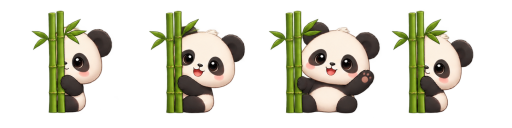
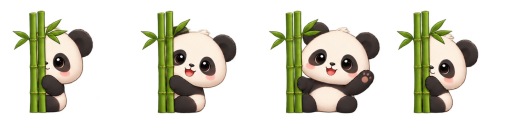
Payments: Peekaboo panda shows the list is refreshing in the background while doors are open

Changed region(s): [[0.2812, 0.0625, 0.5, 0.9062], [0.0312, 0.0625, 0.2188, 0.9062], [0.75, 0.0625, 0.9375, 0.9062]]

diff --git a/exec-portal/payments.js b/exec-portal/payments.js
@@ -23,22 +23,47 @@ async function openPaymentsTab() {
  * A plain reload (after an action) asks for as many as are already on screen, so the list doesn't jump back to the top.
  */
 let ordersCounter = 0;
-async function loadOrders(append) {
+async function loadOrders(append, background) {
   const mine = ++ordersCounter;
   const have = payState.data ? payState.data.orders.length : 0;
-  $("pay-status").textContent = T.loadingOrders;
-  const reply = await api("listOrders", {
+  if (!background) $("pay-status").textContent = T.loadingOrders;
+  const reply = await (background ? apiRequest : api)("listOrders", {
     eventId: payState.eventId, filter: payState.filter === "waitlist" ? "awaiting" : payState.filter, q: payState.q,
     offset: append ? have : 0, limit: append ? ORDERS_PAGE : Math.min(200, Math.max(ORDERS_PAGE, have))
   });
   if (mine !== ordersCounter) return;   // a newer request already started
-  if (!reply.ok) return handleEventError(reply, $("pay-status"));
+  if (!reply.ok) return background ? undefined : handleEventError(reply, $("pay-status"));   // a failed quiet check just waits for the next one
   if (append && payState.data) reply.orders = payState.data.orders.concat(reply.orders);
   payState.data = reply;
   // keep only ticks for orders that are still waiting for payment
   payState.selected = new Set([...payState.selected].filter((id) => reply.orders.some((o) => o.id === id && o.status === "awaiting")));
   renderOrders();
+  updatePayLive();
 }
+
+// ---- Background refresh while doors are open: the list reloads itself and the Peekaboo panda shows it is happening ----
+const PAY_LIVE_MS = 30000;
+
+function payDoorsOpen() {
+  const found = eventsState.events.find((e) => e.id === payState.eventId);
+  return !!(found ? found.entryOpen : payState.data && payState.data.event && payState.data.event.entryOpen);
+}
+
+function updatePayLive() {
+  const box = $("pay-live");
+  const on = payDoorsOpen() && !$("tab-payments").hidden;
+  if (!on) { if (!box.hidden) { box.hidden = true; clearPeekaboo(box); } return; }
+  if (box.hidden) { box.hidden = false; mountPeekaboo(box, T.payLive); }
+}
+
+setInterval(() => {
+  const idle = state.token && !$("app-view").hidden && !$("tab-payments").hidden && !document.hidden;
+  updatePayLive();
+  // Skip a round while a request is running, a dialog is open, or the Waitlist chip is showing (it has its own loader).
+  if (!idle || !payDoorsOpen() || !payState.data || payState.filter === "waitlist" || document.querySelector("dialog[open]")) return;
+  if (document.querySelector("#orders button:disabled")) return;
+  loadOrders(false, true);
+}, PAY_LIVE_MS);
 
 function renderOrders() {
   const data = payState.data;

diff --git a/exec-portal/peekaboo.css b/exec-portal/peekaboo.css
@@ -1,0 +1,29 @@
+/* Peekaboo panda: the small "refreshing in the background" indicator (peekaboo.js).
+   One 10 s loop through four poses of assets/panda/peekaboo-sheet.png (transparent, 4 frames side by side):
+   0 shy peek · 1 peeking out · 2 waving · 3 hidden behind the bamboo. It hides at the end of each loop, between checks.
+   Size it with --pk on the element or any parent (default 44px). */
+.peekaboo {
+  --pk: 44px;
+  display: inline-block; flex: none; width: var(--pk); height: var(--pk); vertical-align: middle;
+  background: url(assets/panda/peekaboo-sheet.png?v=2) no-repeat 0 0 / calc(var(--pk) * 4) var(--pk);
+  background-position-x: calc(var(--pk) * -3);
+  filter: drop-shadow(0 0 1px #fff) drop-shadow(0 0 1px #fff) drop-shadow(0 0 2px rgba(255, 255, 255, .6));
+  pointer-events: none;
+  animation: peekaboo 10s step-end infinite;
+}
+.peekaboo[hidden] { display: none; }
+@keyframes peekaboo {
+  0%   { background-position-x: calc(var(--pk) * -3); }
+  6%   { background-position-x: 0; }
+  16%  { background-position-x: calc(var(--pk) * -1); }
+  28%  { background-position-x: calc(var(--pk) * -2); }
+  46%  { background-position-x: calc(var(--pk) * -1); }
+  56%  { background-position-x: calc(var(--pk) * -2); }
+  68%  { background-position-x: calc(var(--pk) * -1); }
+  76%  { background-position-x: 0; }
+  86%  { background-position-x: calc(var(--pk) * -3); }
+}
+@media (prefers-reduced-motion: reduce) { .peekaboo { animation: none; background-position-x: calc(var(--pk) * -1); } }
+/* Dark mode: the panda's black ears would melt into the page, so it gets a solid pale sticker edge */
+:root[data-theme="dark"] .peekaboo { filter: drop-shadow(1px 0 0 #f4efe6) drop-shadow(-1px 0 0 #f4efe6) drop-shadow(0 1px 0 #f4efe6) drop-shadow(0 -1px 0 #f4efe6); }
+@media (prefers-color-scheme: dark) { :root:not([data-theme="light"]) .peekaboo { filter: drop-shadow(1px 0 0 #f4efe6) drop-shadow(-1px 0 0 #f4efe6) drop-shadow(0 1px 0 #f4efe6) drop-shadow(0 -1px 0 #f4efe6); } }

diff --git a/exec-portal/index.html b/exec-portal/index.html
@@ -11,6 +11,7 @@
   <link rel="stylesheet" href="https://fonts.googleapis.com/css2?family=Inter:wght@400;500;600&family=Fraunces:opsz,wght@9..144,500;9..144,600&family=JetBrains+Mono:wght@400;500&display=swap">
   <link rel="stylesheet" href="styles.css?v=1.6.0">
   <link rel="stylesheet" href="theme.css?v=0.10.5">
+  <link rel="stylesheet" href="peekaboo.css?v=1.0.1">
 </head>
 <body>
   <svg width="0" height="0" style="position:absolute" aria-hidden="true"><defs>
@@ -319,6 +320,7 @@
         <div id="pay-tiles" class="tiles pay-tiles"></div>
         <div class="row-between">
           <p id="pay-summary" class="muted small"></p>
+          <span id="pay-live" class="pay-live" hidden></span>
           <span class="button-row">
             <button id="mail-all-button" class="secondary small-button" data-t="mailAll"></button>
             <button id="add-order-button" class="secondary small-button" data-t="addOrder"></button>
@@ -855,6 +857,7 @@
   <script src="strings.js?v=1.8.0"></script>
   <script src="mock.js?v=0.3.7"></script>
   <script src="panda.js?v=1.5.0"></script>
+  <script src="peekaboo.js?v=1.0.0"></script>
   <script src="app.js?v=1.6.2"></script>
   <script src="events.js?v=1.6.2"></script>
   <script src="waitlist.js?v=1.5.0"></script>

diff --git a/exec-portal/peekaboo.js b/exec-portal/peekaboo.js
@@ -1,0 +1,16 @@
+// CSS background-refresh indicator: the Peekaboo panda peeks, waves and hides in a slow loop (peekaboo.css does the animation).
+//   mountPeekaboo(el, "Updating in the background")   fills `el` with the panda; the text is the tooltip and screen-reader label
+//   clearPeekaboo(el)                                 removes it
+// It only says "the page keeps itself up to date"; it does not know when a check runs.
+
+function mountPeekaboo(el, label) {
+  if (!el) return;
+  el.innerHTML = '<span class="peekaboo" role="img"></span>';
+  const panda = el.firstChild;
+  panda.setAttribute("aria-label", label || "");
+  panda.title = label || "";
+}
+
+function clearPeekaboo(el) {
+  if (el) el.innerHTML = "";
+}

diff --git a/exec-portal/strings.js b/exec-portal/strings.js
@@ -156,6 +156,7 @@ const STRINGS = {
     scanHere: "Scan on this device",
     membersSub: "Look anyone up by name, email, UCID or member ID.",
     paySub: "Match e-transfers to orders, mark them paid, and email people.",
+    payLive: "Doors are open: this list refreshes itself in the background.",
     actSub: "Everything that happens in the portal, newest first.",
     setSub: "Organisation-wide options. Admin only.",
     eventsSub: "Create, publish and run every CSS event from here.",

diff --git a/exec-portal/styles.css b/exec-portal/styles.css
@@ -202,6 +202,7 @@ button.link {
 
 /* Payments tab */
 .payments-top { display: grid; gap: 10px; margin-bottom: 8px; }
+.pay-live { margin-right: auto; margin-left: 8px; }
 .chips { display: flex; flex-wrap: wrap; gap: 6px; }
 .chip { border: 1px solid var(--border); background: var(--surface); color: var(--muted); border-radius: 999px; padding: 6px 14px; font-weight: 600; cursor: pointer; }
 .chip.active { background: var(--accent); border-color: var(--accent); color: var(--accent-text); }
